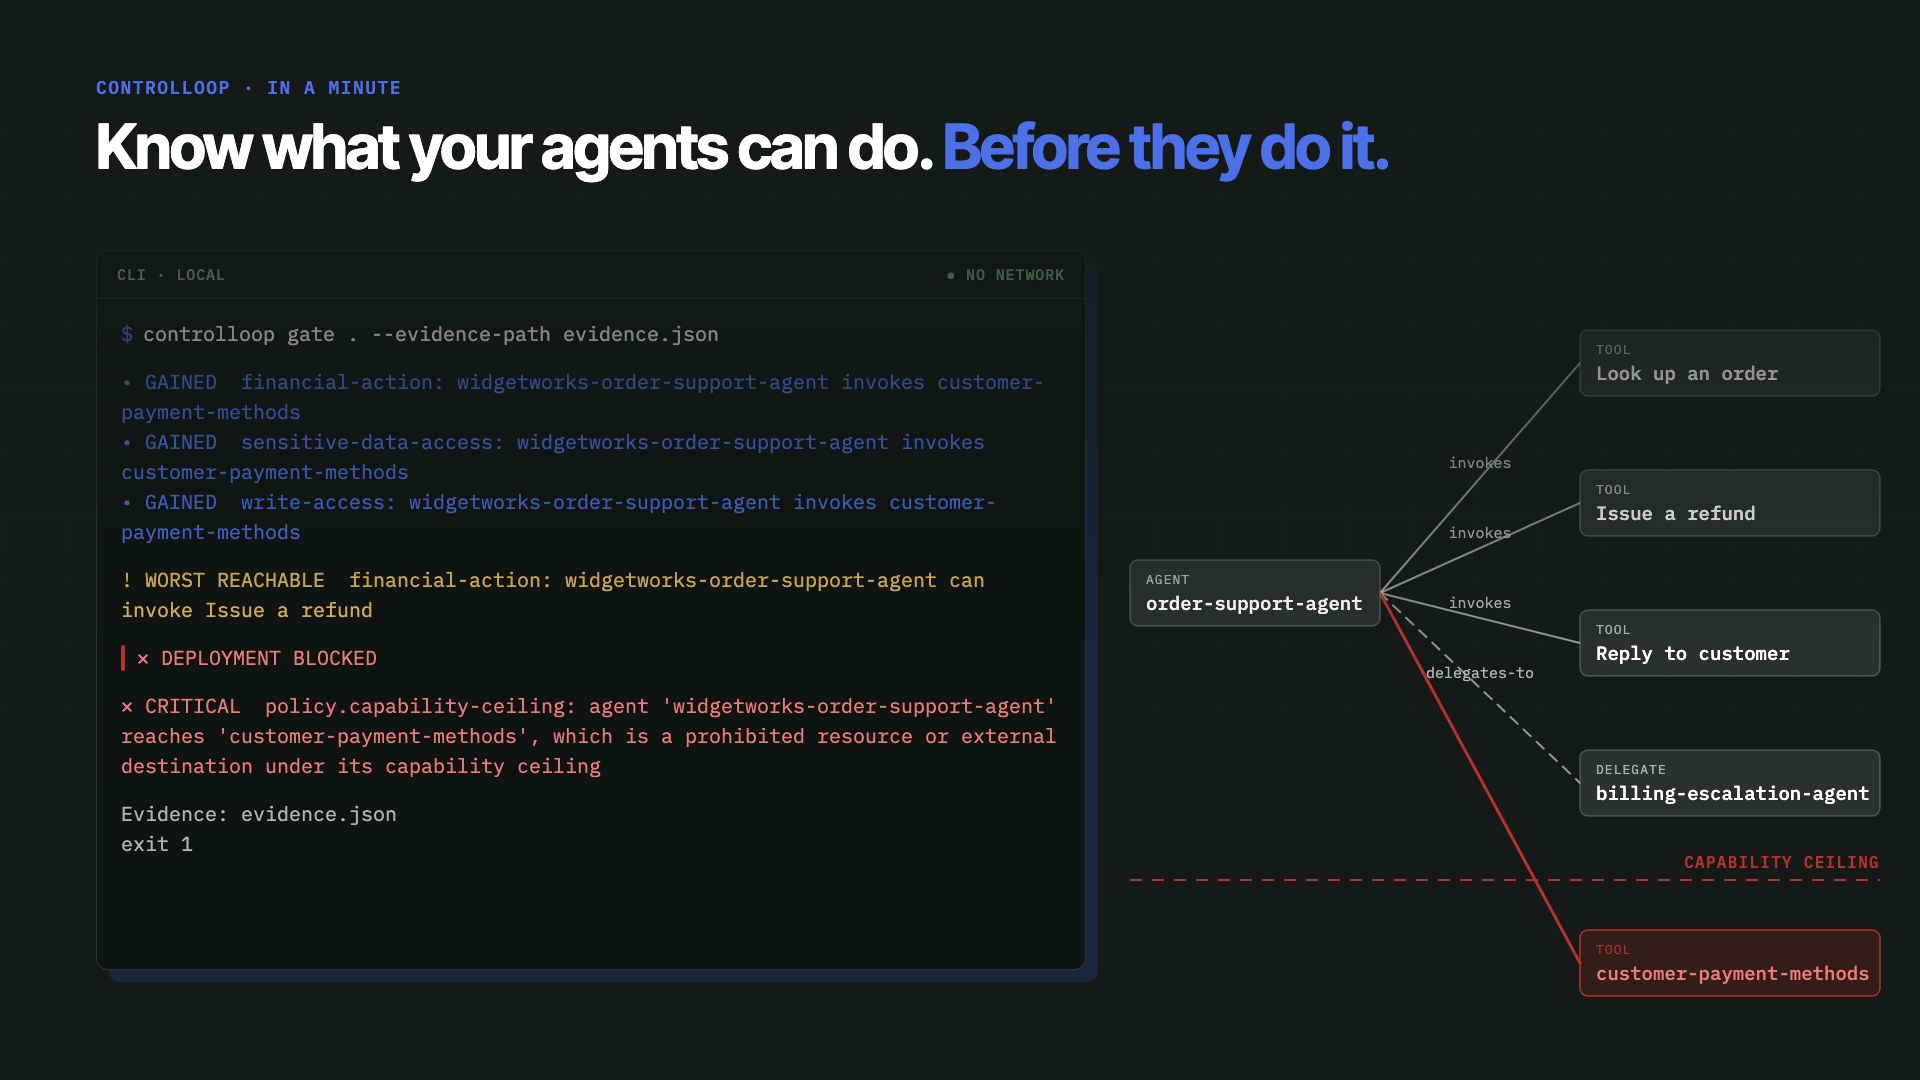
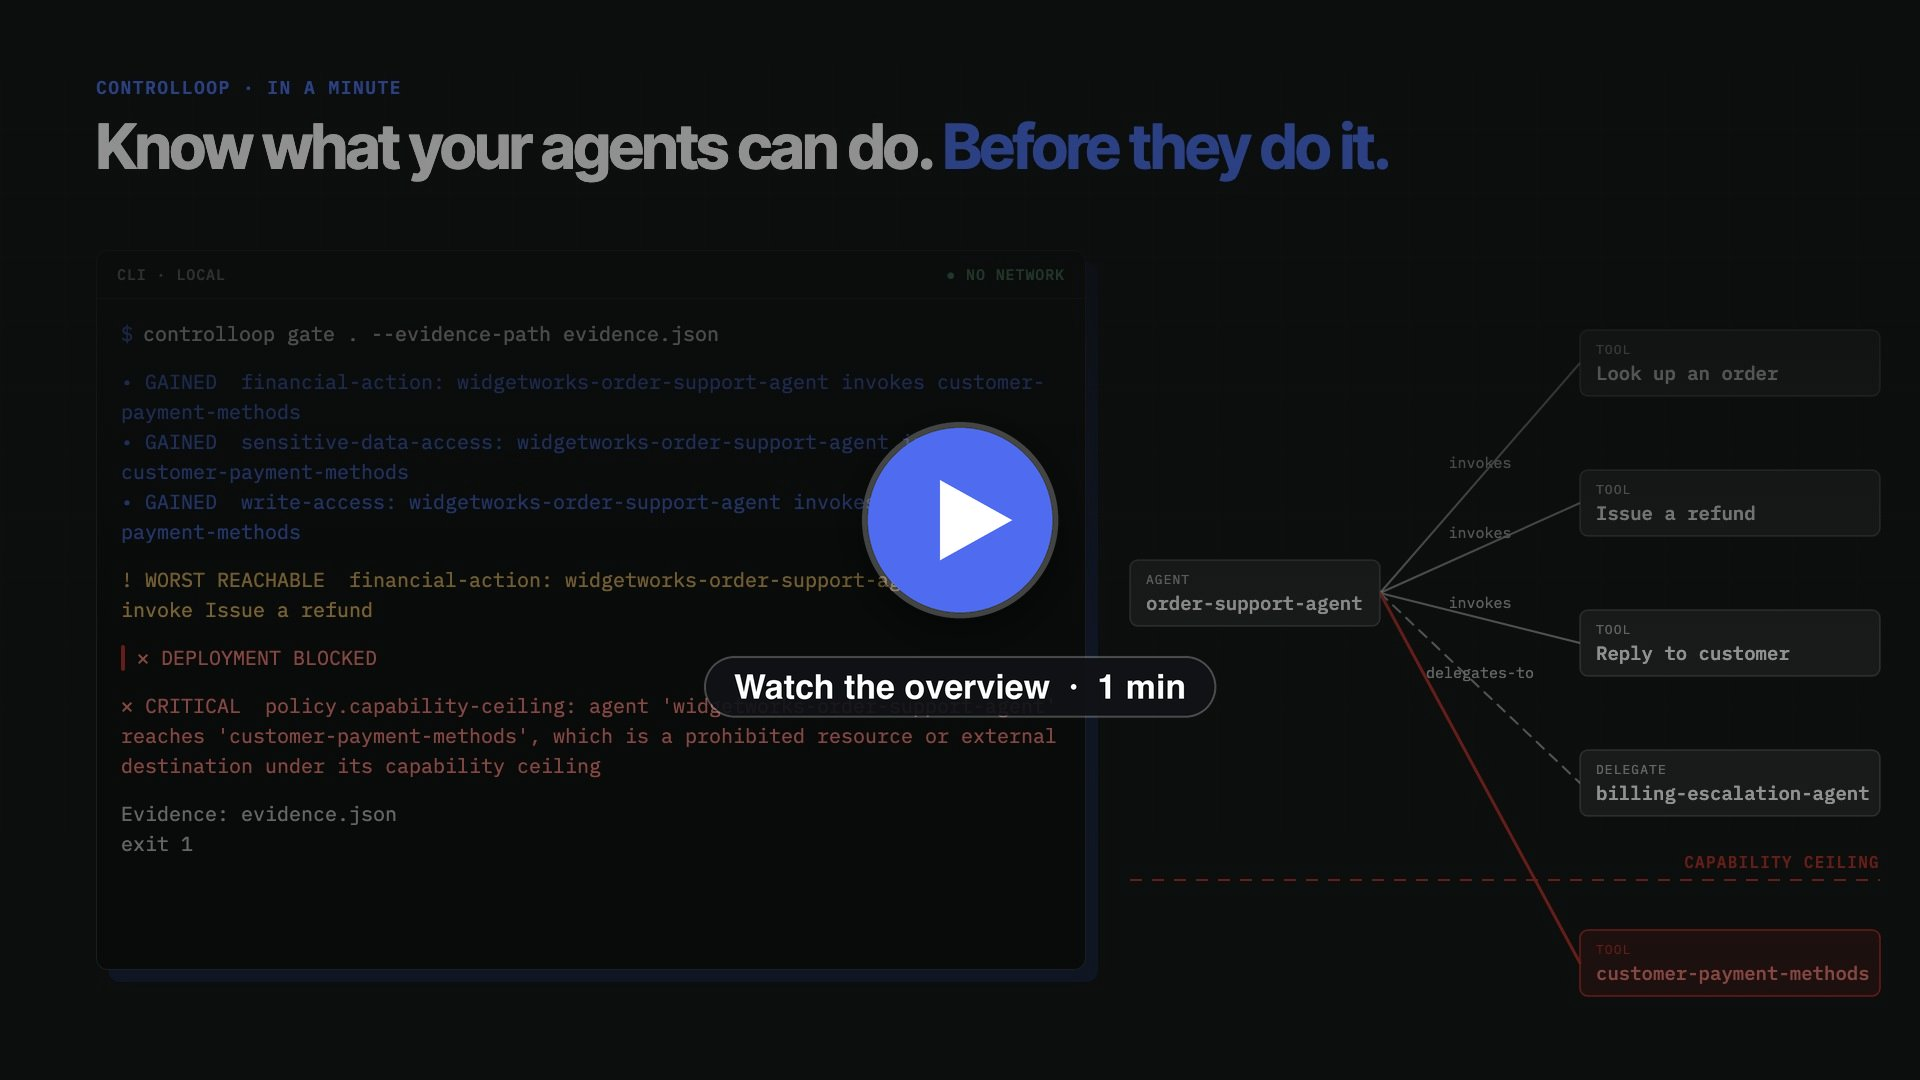
fix(gate): resolve the default branch on pull requests; add a play button to the README video (#1)
* docs(readme): add a play button to the overview video poster

* fix(gate): try origin/<name> when --default-branch does not resolve locally

On a pull_request event, actions/checkout leaves the target branch only
as a remote-tracking ref. The Action passes $GITHUB_BASE_REF (for example
`main`) to `gate --default-branch`, which looked for a local `main`,
found none, and exited 2 on every pull request.

A bare name that does not resolve as given is now also tried as
origin/<name>. The name as given still wins when it resolves.

---------

diff --git a/tests/baseline/test_merge_base.py b/tests/baseline/test_merge_base.py
@@ -126,6 +126,57 @@ class TestResolveMergeBase:
         assert resolution.default_branch_ref == "main"
         assert resolution.merge_base_commit == shared_commit
 
+    def test_explicit_default_branch_falls_back_to_its_remote_tracking_ref(
+        self, tmp_path: Path
+    ) -> None:
+        # The shape actions/checkout leaves on a pull_request event: HEAD
+        # detached at the pull request's commit, the target branch present
+        # only as origin/main, and no local main branch at all.
+        origin = tmp_path / "origin"
+        origin.mkdir()
+        _init_repo(origin)
+        (origin / "a.txt").write_text("a\n")
+        _commit_all(origin, "c1")
+        shared_commit = _head(origin)
+
+        dest = tmp_path / "dest"
+        _clone(origin, dest)
+        _checkout_new_branch(dest, "feature")
+        (dest / "b.txt").write_text("b\n")
+        _commit_all(dest, "c2 on feature")
+        _checkout(dest, "--detach")
+        subprocess.run(
+            ["git", "branch", "-q", "-D", "main", "feature"], cwd=dest, check=True
+        )
+
+        root = resolve_repository_root(dest)
+        resolution = resolve_merge_base(root, default_branch="main")
+
+        assert resolution.default_branch_ref == "origin/main"
+        assert resolution.merge_base_commit == shared_commit
+
+    def test_explicit_default_branch_prefers_the_name_as_given(
+        self, tmp_path: Path
+    ) -> None:
+        origin = tmp_path / "origin"
+        origin.mkdir()
+        _init_repo(origin)
+        (origin / "a.txt").write_text("a\n")
+        _commit_all(origin, "c1")
+
+        dest = tmp_path / "dest"
+        _clone(origin, dest)
+        (origin / "c.txt").write_text("c\n")
+        _commit_all(origin, "c3 on origin only")
+        subprocess.run(["git", "fetch", "-q"], cwd=dest, check=True)
+        local_main = _head(dest)
+
+        root = resolve_repository_root(dest)
+        resolution = resolve_merge_base(root, default_branch="main")
+
+        assert resolution.default_branch_ref == "main"
+        assert resolution.merge_base_commit == local_main
+
     def test_explicit_default_branch_that_does_not_exist_raises(
         self, tmp_path: Path
     ) -> None:

diff --git a/src/controlloop/baseline/merge_base.py b/src/controlloop/baseline/merge_base.py
@@ -333,7 +333,13 @@ def _resolve_default_branch_ref(
     root: RepositoryRoot, default_branch: str | None
 ) -> str:
     if default_branch is not None:
+        # A pull-request checkout (GitHub Actions' actions/checkout on a
+        # `pull_request` event) has the target branch only as a
+        # remote-tracking ref, so a bare name like `main` is also tried as
+        # `origin/main`. The name as given always wins when it resolves.
         candidates: tuple[str, ...] = (default_branch,)
+        if not default_branch.startswith(("origin/", "refs/")):
+            candidates += (f"origin/{default_branch}",)
     else:
         symbolic = _run_git(
             root, ["symbolic-ref", "--quiet", "--short", "refs/remotes/origin/HEAD"]

diff --git a/src/controlloop/cli.py b/src/controlloop/cli.py
@@ -1974,7 +1974,9 @@ _GATE_DEFAULT_BRANCH_OPTION = typer.Option(
     help="Override the branch merge-base baseline resolution treats as "
     "the default/target branch, for example a CI "
     "checkout where origin/HEAD is unset. Omit to resolve automatically "
-    "(origin/HEAD, falling back to common candidate names). Does not "
+    "(origin/HEAD, falling back to common candidate names). A bare name "
+    "that does not resolve locally is also tried as origin/<name>, the "
+    "only form a pull-request checkout has. Does not "
     "provide diff's own explicit-file/-revision baseline override -- "
     "use diff for that.",
 )

diff --git a/README.md b/README.md
@@ -11,7 +11,7 @@ one graph of its capabilities, compares it to the state you approved, and
 fails the build when the agent's authority grows past the ceiling you
 declared. It never runs your code and never sends your source anywhere.
 
-[![Watch the gate block a pull request](docs/assets/readme/hero-poster.jpg)](https://controlloop.ai/#video)
+[![Play the one-minute overview: ControlLoop blocks a pull request that widens an agent's authority](docs/assets/readme/hero-poster.jpg)](https://controlloop.ai/#video)
 
 Watch: [the gate in a minute](https://controlloop.ai/#video) · Read: [the example walkthrough](docs/guides/example-walkthrough.md)
 

diff --git a/CHANGELOG.md b/CHANGELOG.md
@@ -8,6 +8,14 @@ project uses [Semantic Versioning](https://semver.org/).
 
 The first public release of the ControlLoop CLI.
 
+### Fixed
+
+- **`gate --default-branch` on a pull request.** A bare branch name such
+  as `main` that does not exist locally is now also tried as
+  `origin/main`. A pull-request checkout in GitHub Actions has the target
+  branch only as a remote-tracking ref, so the Action's own default
+  (`$GITHUB_BASE_REF`) failed with exit `2` on every pull request.
+
 ### Added
 
 - **Commands:** `scan`, `gate`, `diff`, `bom`, `init`, `rules`, and
